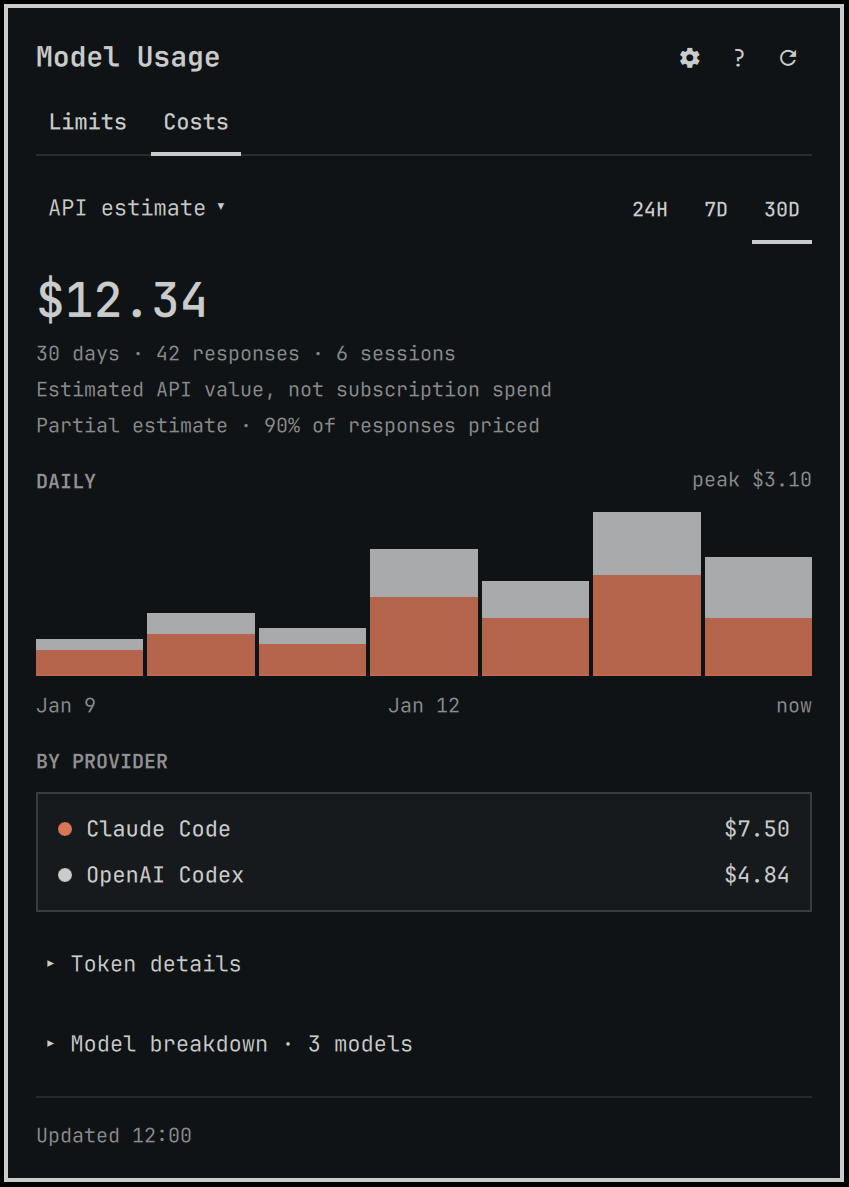
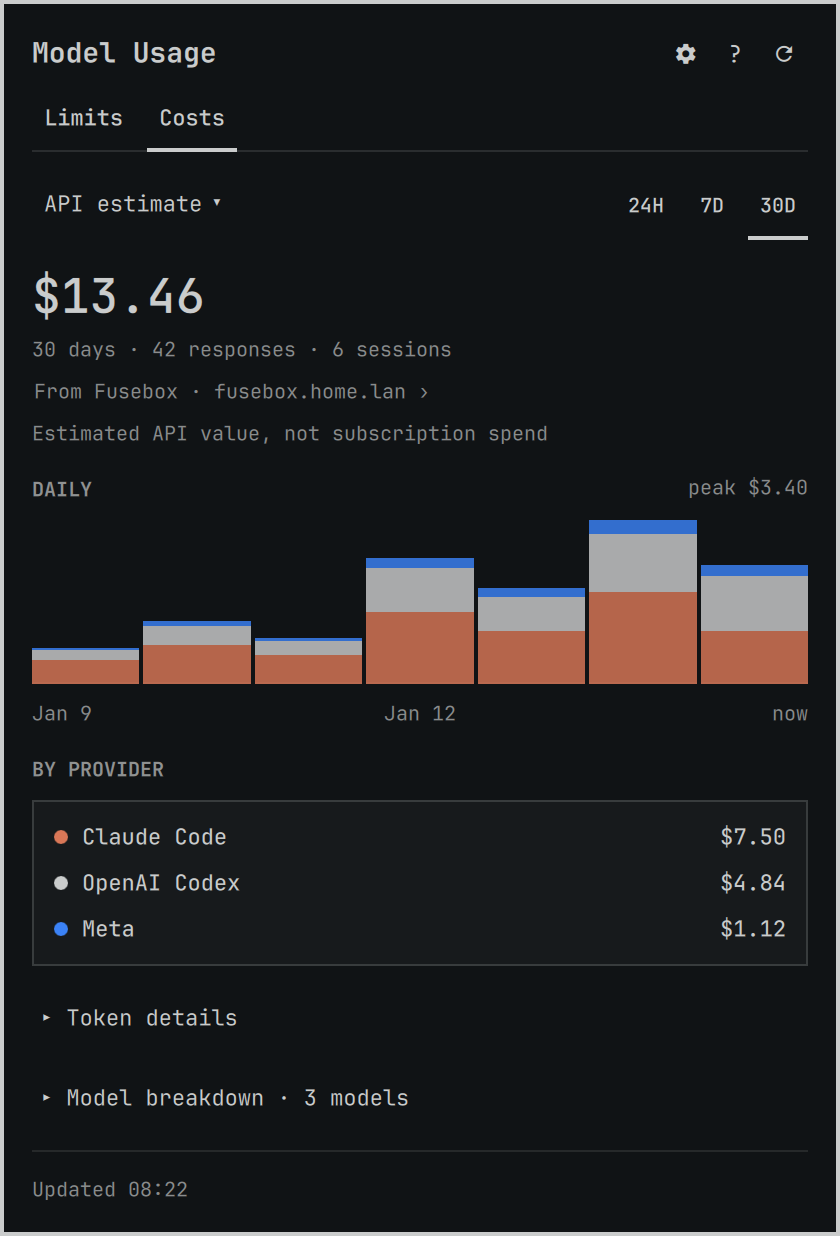
Prepare Model Usage 1.5.0 for the Omarchy marketplace
Shorten the manifest description to the marketplace's 500-character limit,
and move the optional Keeper service unit and environment example to
docs/keeper/, since the plugin never installs a service. A project test now
enforces the manifest field limits and keeps example units under docs/.

Re-render the README images and recompose preview.png from synthetic
fixtures: Fusebox Limits with Fable lines and banked resets, Fusebox costs,
and local CLI limits. Record the 1.5.0 release review.

diff --git a/tests/test_project.py b/tests/test_project.py
@@ -20,7 +20,12 @@ class ProjectContractTests(unittest.TestCase):
         self.assertEqual(manifest["barWidget"]["defaultSection"], "right")
         self.assertFalse(manifest["barWidget"]["allowMultiple"])
         self.assertNotIn("aliases", manifest)
-        keys = {entry["key"] for entry in manifest["barWidget"]["schema"]}
+        # The Omarchy plugin marketplace rejects community manifests whose
+        # trimmed string fields exceed these lengths.
+        limits = {"id": 128, "name": 120, "version": 64, "author": 120, "description": 500, "license": 120}
+        for field, limit in limits.items():
+            self.assertLessEqual(len(manifest[field].strip()), limit, field)
+        keys ={entry["key"] for entry in manifest["barWidget"]["schema"]}
         self.assertEqual(keys, {
             "refreshIntervalSec", "enabledProviders", "barDisplayMode", "barProviders",
             "warningThreshold", "criticalThreshold", "liveAccountActivity",
@@ -74,6 +79,13 @@ class ProjectContractTests(unittest.TestCase):
         width, height = struct.unpack(">II", screenshot[16:24])
         self.assertGreaterEqual(width, 500)
         self.assertGreaterEqual(height, 500)
+
+        # Example service units for optional server-side tools are documentation:
+        # the plugin never installs them, so they live under docs/.
+        for path in ROOT.rglob("*.service"):
+            relative = path.relative_to(ROOT)
+            if relative.parts[0] not in (".git", "docs"):
+                self.fail(f"{relative}: keep example service units under docs/")
 
         workflow = (ROOT / ".github" / "workflows" / "ci.yml").read_text()
         self.assertIn('python-version: ["3.10"', workflow)

diff --git a/README.md b/README.md
@@ -10,16 +10,16 @@ AI subscription limits, token activity, and estimated API costs in your Omarchy 
 
 <table>
   <tr>
-    <th>Every provider at once · CLIProxyAPI</th>
+    <th>Every provider at once · Fusebox</th>
     <th>Costs · estimated API value</th>
   </tr>
   <tr>
-    <td valign="top"><img src="docs/model-usage-panel.png" alt="Limits with one card per provider: two Claude accounts, three Codex Pro 20× accounts with banked-reset buttons, two Kimi accounts and an unsupported Gemini provider, one line per account with weekly meter, percentage left and reset countdown" width="420"></td>
-    <td valign="top"><img src="docs/model-usage-costs.png" alt="30-day API cost estimate with a daily chart, Claude and Codex totals, and expandable token and model details" width="420"></td>
+    <td valign="top"><img src="docs/model-usage-panel.png" alt="Limits with one card per provider: two Claude Max 20x accounts, each with its Fable week on an indented line, three Codex Pro 20× accounts with banked-reset buttons, and a Meta account, one line per account with weekly meter, percentage left and reset countdown" width="420"></td>
+    <td valign="top"><img src="docs/model-usage-costs.png" alt="30-day API cost estimate from a Fusebox server with a daily chart, Claude, Codex and Meta totals, and expandable token and model details" width="420"></td>
   </tr>
 </table>
 
-Rendered from the test fixtures (synthetic data, not live accounts), November 2026. Account labels are numbered; the menu-bar capture is from September 2026.
+Rendered from synthetic fixture data (not live accounts) with version 1.5.0, November 2026: Limits from a test Fusebox server read by the real collector, Costs from the cost-contract fixture. Account labels are numbered; the menu-bar capture is from September 2026.
 
 ## Highlights
 
@@ -72,7 +72,7 @@ Sign in to each provider you want to monitor, then open **Limits → gear** and 
 The plugin reads existing CLI credentials; sign-in and credential renewal remain with the CLI. CLI-owned environment overrides are honored; see the [configuration reference](docs/configuration.md#providers-and-authentication).
 
 <p align="center">
-  <img src="docs/model-usage-local-cli.png" alt="Local CLI mode with Claude, Codex and Kimi cards: one line per session, weekly and model-specific limit, extra usage and credits, and Claude's 24-hour quota history expanded" width="420">
+  <img src="docs/model-usage-local-cli.png" alt="Local CLI mode with Claude, Codex and Kimi cards: one line per 5-hour, weekly and model-specific limit including Claude's Fable week, extra usage and credits, and Claude's 24-hour quota history expanded" width="420">
 </p>
 
 The current UI rendered with representative fixture data; this is a local CLI mode example, not a live account reading.

diff --git a/CHANGELOG.md b/CHANGELOG.md
@@ -1,7 +1,10 @@
 # Changelog
 
-## Unreleased
+## 1.5.0
 
+- Shorten the manifest description to the marketplace's 500-character limit and mention Fusebox cost history.
+- Move the optional CPA Usage Keeper service unit and environment example from `deploy/keeper/` to `docs/keeper/`. They are setup documentation for the proxy host; the plugin never installs or manages a service.
+- Re-render the README Limits, Costs and local CLI images and recompose the marketplace preview for this release: Fusebox accounts with Fable lines and banked resets, Fusebox cost history, and a layout whose title stays visible in the marketplace's cropped cards.
 - Show Claude's Fable weekly allowance on its own indented line under every account that reports one, not only once it reaches the warning level, so the percentage a Fable week gives the menu bar is visible in the card. The line is named “Fable”, uses the same meter, colors and columns as the account line, and its tooltip adds that Fable runs on extra usage once the allowance is spent. **Details** still lists every other limit.
 - Read Fusebox's `week overage` (Claude's `seven_day_overage_included`) as the Fable week, as Claude Code does, instead of “Extra usage · Weekly limit”; when Fusebox also reports `week fable`, that one is kept. Without the typed entry, the local Claude reading uses the same field. Model-scoped Fusebox weeks are named like local ones (“Fable weekly”, “Opus weekly”), and windows limited to one model carry its family in a new optional `model` field.
 - Make Costs follow Limits: when Limits reads a Fusebox server, Costs show its usage history (everything sent through that Fusebox, from any computer) without a separate switch. Until the server is detected, one without usage history is skipped quietly; a detected CLIProxyAPI is not asked. **Changes totals on upgrade:** “Include Fusebox usage” was off by default, so its saved “off” cannot be told apart from never touched, and every installation now follows Limits. To keep only this computer's history, choose **This computer** under **Cost history from** in the Costs tab.

diff --git a/COMPATIBILITY.md b/COMPATIBILITY.md
@@ -3,8 +3,8 @@
 - Omarchy branch: `quattro`
 - Omarchy commit: `2c247e390e357ae0fee3f8565b0c816adb705e6a`
 - Development date: 2026-08-23
-- Latest release review validation: 2026-09-13
-- Plugin release: `1.1.1`
+- Latest release review validation: 2026-11-10
+- Plugin release: `1.5.0`
 - Plugin manifest schema: 1
 - Limit backend schema: 1
 - Estimated-cost backend schema: 1
@@ -49,6 +49,17 @@ a supported desktop shell restart, live Claude and three-account Codex Limits an
 refreshed Costs were visually checked with account names hidden. Quota history and
 cost caches were freshly written with mode `0600` under the private state directory;
 the new shell log contained no plugin load or QML errors.
+
+The 1.5.0 release review (2026-11-10) ran `tests/ci-qml` in a disposable Arch
+Linux container pinned to the stack above: 202 Python tests, JavaScript checks,
+QML lint, the quota/activity/live/settings/cost/reset QML contracts and the
+headless Wayland runtime contract all passed. A clean package passed
+`omarchy plugin validate` from Omarchy `quattro` at both the pinned commit and
+the current branch head, and the marketplace's own manifest validator and
+automated security baseline were run against the release commit. The README
+images and marketplace preview were rendered from synthetic fixtures in that
+container; no live desktop shell or provider sign-in was checked for this
+release review.
 
 ## Provider compatibility
 

diff --git a/docs/releasing.md b/docs/releasing.md
@@ -11,10 +11,12 @@
    hidden. Crop to the widget; never publish unrelated desktop content or account
    tooltips. Label fixture examples in the README.
    Update root `preview.png` separately: the marketplace reads this image, not
-   the README gallery. The current 1920×1080 composition uses the menu bar,
-   three Codex account cards, and Costs; it predates the one-line account rows
-   and should be recomposed with the next release. Check both the full image and a small
-   landscape crop so the marketplace card retains the title and main views.
+   the README gallery. The current 1920×1080 composition (1.5.0) has the title,
+   menu-bar chips and a short feature list on the left, and the Fusebox Limits and
+   Costs panels on the right, all rendered from synthetic fixtures. Marketplace
+   cards are 175 px tall and crop the image to fill (`object-fit: cover`), so keep
+   the title and main views inside the vertical centre; check both the full image
+   and a small landscape crop.
 6. Push the release commit, create an annotated `vX.Y.Z` tag, and publish release
    notes from `CHANGELOG.md`.
 7. Install the public repository URL on a clean user checkout:

diff --git a/docs/keeper-deployment.md b/docs/keeper-deployment.md
@@ -15,9 +15,9 @@ Keeper is an external dependency, not vendored into this plugin.
    and point `/opt/cpa-usage-keeper/current` at `releases/v1.15.4`.
 2. Create the system account `cpa-usage-keeper` with home
    `/var/lib/cpa-usage-keeper` and no login shell. Install
-   [the service unit](../deploy/keeper/cpa-usage-keeper.service) under
+   [the service unit](keeper/cpa-usage-keeper.service) under
    `/etc/systemd/system/`.
-3. Adapt [keeper.env.example](../deploy/keeper/keeper.env.example) into
+3. Adapt [keeper.env.example](keeper/keeper.env.example) into
    `/etc/cpa-usage-keeper/keeper.env`, owned by root with mode `0600`.
    Set the existing proxy management key and a separate random Keeper login
    password. Keep authentication enabled. Keeper handles both secrets; they
